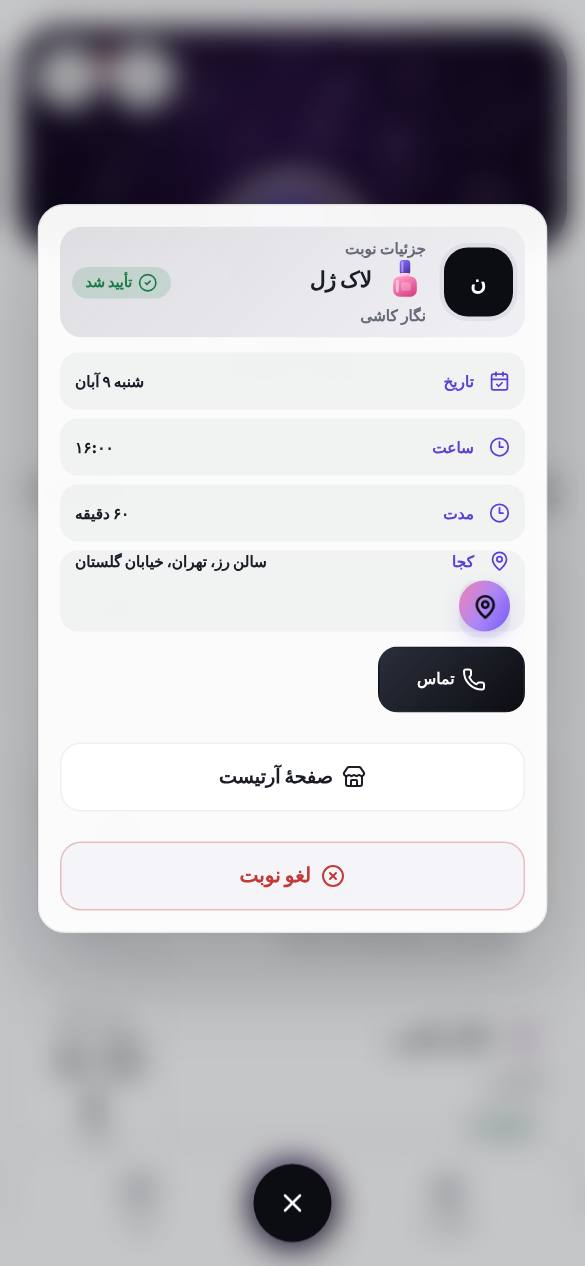
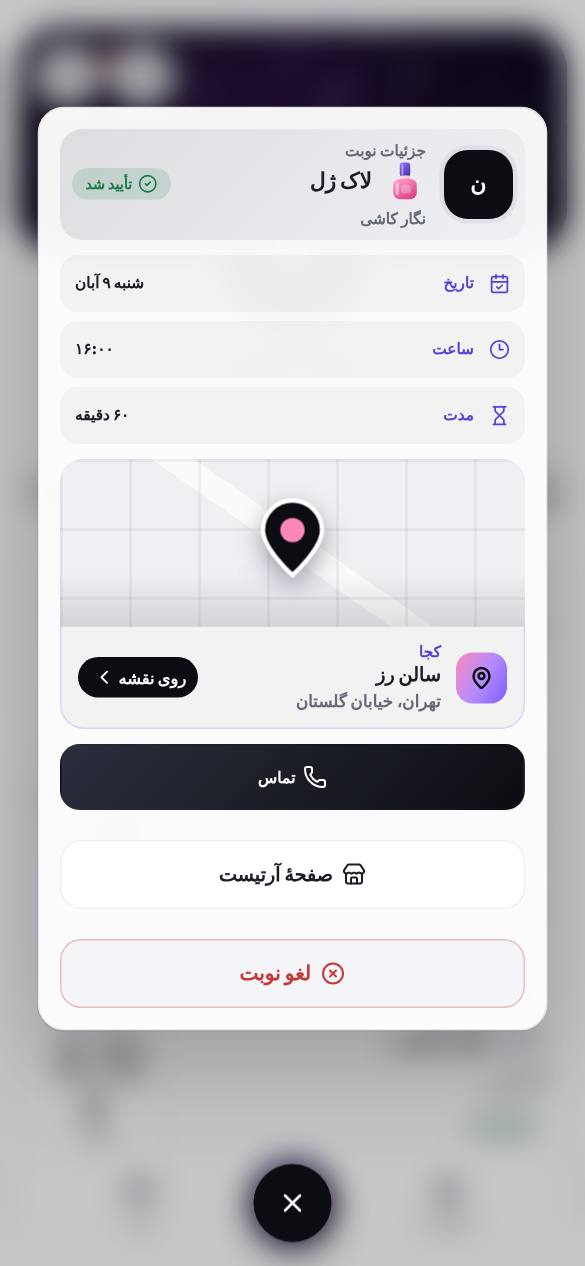
Booking details: «کجا» becomes a map card, and the map sheet is redesigned
The location row in the client's booking details was a cramped text line with a floating pin. It is now a
card with a small still map, the place's name and area and «روی نقشه»; the whole card opens the map. The map
sheet now fills with the map, the name floats on top, the pin carries the name and drops in, and there are
«برگرد سر پین» and zoom buttons. At night the map dims to match the app; while tiles load a faint street
grid shows instead of an empty box. Salon bookings now carry the salon's pin too.

Also: an artist booking says «منتظر آرتیست» and «آرتیست همون لحظه خبردار میشه» instead of «سالن»; a lone
«تماس» button spans the full width; «مدت» gets an hourglass icon. Screens retaken, map screens added.

Claude-Session: https://claude.ai/code/session_012eDscH4fh4hWdxGJLyyo8q

diff --git a/app/styles/features/location.css b/app/styles/features/location.css
@@ -26,28 +26,69 @@
   100% { box-shadow: 0 0 0 12px rgb(var(--brand-pink-rgb) / 0); }
 }
 
-/* ── Sheet ── */
+/* ── Sheet: the map fills it; the name floats on top, the map tools sit on the side ── */
 .locSheetOverlay { position: fixed; inset: 0; z-index: calc(var(--z-sheet-close) - 2); display: flex; align-items: flex-end; justify-content: center; background: var(--scrim); animation: locFade 0.22s ease-out both; }
-.locSheet { width: 100%; max-width: 460px; max-height: calc(100dvh - 40px - env(safe-area-inset-top)); overflow-y: auto; overscroll-behavior: contain; box-sizing: border-box; display: flex; flex-direction: column; gap: 14px; padding: 18px 16px 0; border-radius: 28px 28px 0 0; background: var(--n-0); color: var(--n-900); box-shadow: 0 -20px 50px -20px rgb(var(--shadow-rgb) / 0.45); animation: locRise 0.32s cubic-bezier(0.2, 0.8, 0.25, 1) both; }
-.locSheetHead { display: flex; align-items: center; gap: 12px; }
-.locSheetHead > div { min-width: 0; display: grid; gap: 1px; }
-.locSheetHead h3 { margin: 0; overflow: hidden; font-size: 1.06rem; font-weight: 900; white-space: nowrap; text-overflow: ellipsis; }
-.locSheetHead small { color: var(--n-600); font-size: 0.76rem; font-weight: 700; }
-.locSheetBadge { width: 40px; height: 40px; flex: none; display: grid; place-items: center; border-radius: 14px; background: var(--brand-blend); color: var(--brand-ink); }
+.locSheet { width: 100%; max-width: 460px; box-sizing: border-box; display: flex; flex-direction: column; padding: 10px 10px 0; border-radius: 30px 30px 0 0; background: var(--n-0); color: var(--n-900); box-shadow: 0 -20px 50px -20px rgb(var(--shadow-rgb) / 0.45); animation: locRise 0.36s cubic-bezier(0.2, 0.8, 0.25, 1) both; }
+.locStage { position: relative; height: min(calc(100dvh - 150px - env(safe-area-inset-top)), 620px); flex: none; overflow: hidden; border-radius: 22px; background: var(--n-100); isolation: isolate; }
+.locStage .locMap { position: absolute; inset: 0; height: auto; border-radius: 0; }
 
-.locMap { position: relative; z-index: 0; height: min(60dvh, 440px); flex: none; overflow: hidden; border-radius: 20px; background: var(--n-100); direction: ltr; }
-.locMap .leaflet-control-attribution { font-size: 9px; }
-.locPinIcon { background: none !important; border: 0 !important; }
-.locPin { position: relative; display: block; width: 38px; height: 46px; }
+.locSheetHead { position: absolute; z-index: 2; top: 10px; right: 10px; left: 10px; display: flex; align-items: center; gap: 10px; padding: 8px 14px 8px 8px; border-radius: 18px; background: rgb(var(--paper-rgb) / 0.9); box-shadow: 0 10px 28px -10px rgb(var(--shadow-rgb) / 0.4), inset 0 0 0 1px rgb(var(--ink-rgb) / 0.06); backdrop-filter: blur(14px); -webkit-backdrop-filter: blur(14px); animation: locDrop 0.4s 0.12s cubic-bezier(0.2, 0.8, 0.25, 1) both; }
+.locSheetHead > div { min-width: 0; display: grid; gap: 1px; }
+.locSheetHead h3 { margin: 0; overflow: hidden; color: var(--n-900); font-size: 1rem; font-weight: 900; white-space: nowrap; text-overflow: ellipsis; }
+.locSheetHead small { color: var(--n-600); font-size: 0.74rem; font-weight: 800; }
+.locSheetBadge { width: 40px; height: 40px; flex: none; display: grid; place-items: center; border-radius: 13px; background: var(--brand-blend); color: var(--brand-ink); }
+
+.locTools { position: absolute; z-index: 2; bottom: 14px; left: 12px; display: grid; gap: 8px; justify-items: center; }
+.locTools button { width: 44px; height: 44px; display: grid; place-items: center; padding: 0; border: 0; background: rgb(var(--paper-rgb) / 0.94); color: var(--n-900); cursor: pointer; -webkit-tap-highlight-color: transparent; }
+.locTools > button { border-radius: 50%; box-shadow: 0 8px 20px -8px rgb(var(--shadow-rgb) / 0.5), inset 0 0 0 1px rgb(var(--ink-rgb) / 0.06); }
+.locZoom { display: grid; overflow: hidden; border-radius: 16px; box-shadow: 0 8px 20px -8px rgb(var(--shadow-rgb) / 0.5), inset 0 0 0 1px rgb(var(--ink-rgb) / 0.06); }
+.locZoom button + button { border-top: 1px solid rgb(var(--ink-rgb) / 0.08); }
+.locTools button:active { background: var(--n-100); }
+.locTools button:focus-visible { outline: 3px solid var(--focus-ring); outline-offset: 2px; }
+
+/* Until the tiles arrive (slow networks) a faint street grid keeps it looking like a map, not an empty box. */
+.locMap { position: relative; z-index: 0; height: min(60dvh, 440px); flex: none; overflow: hidden; border-radius: 20px; direction: ltr; }
+.locMap, .locMap.leaflet-container { background-color: var(--n-100); background-image: linear-gradient(rgb(var(--ink-rgb) / 0.05) 2px, transparent 2px), linear-gradient(90deg, rgb(var(--ink-rgb) / 0.05) 2px, transparent 2px), linear-gradient(35deg, transparent 47%, rgb(var(--paper-rgb) / 0.7) 47%, rgb(var(--paper-rgb) / 0.7) 53%, transparent 53%); background-size: 46px 46px, 46px 46px, 100% 100%; }
+.locMap .leaflet-control-attribution { font-size: 9px; background: rgb(var(--paper-rgb) / 0.8); color: var(--n-600); }
+.locMap .leaflet-control-attribution a { color: inherit; }
+.locStage .leaflet-bottom.leaflet-left { margin-left: 64px; }
+.locPinIcon { background: none !important; border: 0 !important; overflow: visible; }
+.locPin { position: relative; display: block; width: 44px; height: 54px; animation: locPinDrop 0.6s 0.2s cubic-bezier(0.3, 1.5, 0.5, 1) both; }
 .locPin svg { position: relative; display: block; filter: drop-shadow(0 6px 8px rgb(var(--shadow-rgb) / 0.35)); }
-.locPinPulse { position: absolute; left: 50%; bottom: -6px; width: 44px; height: 16px; margin-left: -22px; border-radius: 50%; background: rgb(var(--brand-violet-rgb) / 0.35); animation: locPulse 2.2s ease-out infinite; }
+.locPinPulse { position: absolute; left: 50%; bottom: -6px; width: 50px; height: 18px; margin-left: -25px; border-radius: 50%; background: rgb(var(--brand-violet-rgb) / 0.35); animation: locPulse 2.2s ease-out infinite; }
+.locPinTag { position: absolute; bottom: calc(100% + 6px); left: 50%; max-width: 180px; overflow: hidden; padding: 5px 11px; border-radius: 999px; background: var(--n-900); color: var(--n-0); font-family: inherit; font-size: 12px; font-weight: 900; line-height: 1.5; white-space: nowrap; text-overflow: ellipsis; direction: rtl; transform: translateX(-50%); box-shadow: 0 6px 14px -6px rgb(var(--shadow-rgb) / 0.6); }
+.locPinTag::after { content: ""; position: absolute; top: 100%; left: 50%; margin-left: -5px; border: 5px solid transparent; border-top-color: var(--n-900); }
 @keyframes locPulse { 0% { transform: scale(0.4); opacity: 1; } 100% { transform: scale(1.5); opacity: 0; } }
+@keyframes locPinDrop { from { transform: translateY(-28px); opacity: 0; } to { transform: none; opacity: 1; } }
 
 @keyframes locFade { from { opacity: 0; } to { opacity: 1; } }
 @keyframes locRise { from { transform: translateY(40px); opacity: 0; } to { transform: none; opacity: 1; } }
+@keyframes locDrop { from { transform: translateY(-10px); opacity: 0; } to { transform: none; opacity: 1; } }
+
+/* At night the street map dims to match the app instead of glowing white. */
+:root[data-theme="dark"] .locMap .leaflet-tile-pane { filter: brightness(0.62) contrast(1.15) saturate(0.7); }
+@media (prefers-color-scheme: dark) {
+  :root:not([data-theme="light"]) .locMap .leaflet-tile-pane { filter: brightness(0.62) contrast(1.15) saturate(0.7); }
+}
+
+/* ── «کجا» card in the client's booking details (LocationCard) ── */
+.locCard { position: relative; display: grid; width: 100%; overflow: hidden; padding: 0; border: 0; border-radius: 16px; background: rgb(var(--ink-rgb) / 0.04); color: var(--n-900); font: inherit; text-align: right; }
+.locCard.is-pinned { cursor: pointer; box-shadow: inset 0 0 0 1px rgb(var(--brand-violet-rgb) / 0.22); -webkit-tap-highlight-color: transparent; }
+.locCard.is-pinned:active { transform: scale(0.985); }
+.locCard.is-pinned:focus-visible { outline: 3px solid var(--focus-ring); outline-offset: 2px; }
+.locCardMap { position: relative; display: block; height: 112px; pointer-events: none; }
+.locCardMap .locMap { position: absolute; inset: 0; height: auto; border-radius: 0; }
+.locCardMap::after { content: ""; position: absolute; inset: auto 0 0; z-index: 1; height: 36px; background: linear-gradient(to top, rgb(var(--ink-rgb) / 0.12), transparent); }
+.locCardText { display: flex; align-items: center; gap: 10px; padding: 10px 12px; }
+.locCardIcon { width: 34px; height: 34px; flex: none; display: grid; place-items: center; border-radius: 11px; background: var(--brand-blend); color: var(--brand-ink); }
+.locCardLines { flex: 1; min-width: 0; display: grid; gap: 1px; }
+.locCardLines small { color: var(--info); font-size: 0.64rem; font-weight: 900; }
+.locCardLines b { overflow: hidden; color: var(--n-900); font-size: 0.8rem; font-weight: 950; white-space: nowrap; text-overflow: ellipsis; }
+.locCardLines em { color: var(--n-600); font-size: 0.7rem; font-style: normal; font-weight: 800; line-height: 1.6; }
+.locCardGo { flex: none; display: inline-flex; align-items: center; gap: 2px; padding: 6px 8px 6px 10px; border-radius: 999px; background: var(--fill-strong); color: var(--n-0); font-size: 0.68rem; font-weight: 900; }
 
 @media (prefers-reduced-motion: reduce) {
-  .locButton svg, .locButtonRing, .locPinPulse, .locSheet, .locSheetOverlay { animation: none; }
+  .locButton svg, .locButtonRing, .locPinPulse, .locPin, .locSheet, .locSheetHead, .locSheetOverlay { animation: none; }
 }
 
 /* ── تنظیمات → ثبت لوکیشن: plate / floor field and the «no pin yet» nudge ── */

diff --git a/app/components/LocationButton.jsx b/app/components/LocationButton.jsx
@@ -2,56 +2,97 @@
 
 import { useEffect, useRef, useState } from "react";
 import { createPortal } from "react-dom";
-import { MapPin } from "lucide-react";
+import { ChevronLeft, LocateFixed, MapPin, Minus, Plus } from "lucide-react";
 import { SheetClose } from "./SheetClose";
 // Bundled with the app instead of fetched from a CDN, so the map never depends on one being reachable.
 import "leaflet/dist/leaflet.css";
 
 const PIN_ZOOM = 16;
-const PIN_HTML = `<span class="locPin" aria-hidden="true"><span class="locPinPulse"></span><svg width="38" height="46" viewBox="0 0 38 46"><path d="M19 45s17-15.2 17-26A17 17 0 0 0 2 19c0 10.8 17 26 17 26Z" style="fill:var(--brand-ink);stroke:var(--brand-white)" stroke-width="2.5"/><circle cx="19" cy="19" r="7" style="fill:var(--brand-pink)"/></svg></span>`;
+const PREVIEW_ZOOM = 15;
 
-/** The pinned map inside the sheet: Leaflet + OpenStreetMap tiles, the same as «ثبت لوکیشن». */
-function LocationMap({ lat, lng }) {
+function escapeHtml(text) {
+  return String(text).replace(/[&<>"']/g, (ch) => ({ "&": "&amp;", "<": "&lt;", ">": "&gt;", '"': "&quot;", "'": "&#39;" })[ch]);
+}
+
+function pinHtml(label) {
+  const tag = label ? `<span class="locPinTag">${escapeHtml(label)}</span>` : "";
+  return `<span class="locPin" aria-hidden="true">${tag}<span class="locPinPulse"></span><svg width="44" height="54" viewBox="0 0 38 46"><path d="M19 45s17-15.2 17-26A17 17 0 0 0 2 19c0 10.8 17 26 17 26Z" style="fill:var(--brand-ink);stroke:var(--brand-white)" stroke-width="2.5"/><circle cx="19" cy="19" r="7" style="fill:var(--brand-pink)"/></svg></span>`;
+}
+
+const hasPin = (location) => Boolean(location) && Number.isFinite(location.lat) && Number.isFinite(location.lng);
+
+/**
+ * The pinned map: Leaflet + OpenStreetMap tiles, the same as «ثبت لوکیشن». `preview` is the small,
+ * still picture inside the booking card (no gestures, taps fall through to the card); otherwise it is
+ * the full map in the sheet, with the place's name on the pin and onReady handing out the map.
+ */
+function LocationMap({ lat, lng, label = "", preview = false, onReady }) {
   const containerRef = useRef(null);
+  const readyRef = useRef(onReady);
+  readyRef.current = onReady;
 
   useEffect(() => {
     let map = null;
     let cancelled = false;
     import("leaflet").then((L) => {
       if (cancelled || !containerRef.current) return;
-      map = L.map(containerRef.current, { center: [lat, lng], zoom: PIN_ZOOM, zoomControl: false, attributionControl: false });
+      map = L.map(containerRef.current, {
+        center: [lat, lng],
+        zoom: preview ? PREVIEW_ZOOM : PIN_ZOOM,
+        zoomControl: false,
+        attributionControl: false,
+        ...(preview ? { dragging: false, touchZoom: false, scrollWheelZoom: false, doubleClickZoom: false, boxZoom: false, keyboard: false, tap: false } : {})
+      });
       L.tileLayer("https://{s}.tile.openstreetmap.org/{z}/{x}/{y}.png", { maxZoom: 19 }).addTo(map);
-      L.control.attribution({ prefix: false, position: "bottomleft" }).addAttribution("© OpenStreetMap").addTo(map);
+      if (!preview) L.control.attribution({ prefix: false, position: "bottomleft" }).addAttribution("© OpenStreetMap").addTo(map);
       L.marker([lat, lng], {
-        icon: L.divIcon({ className: "locPinIcon", html: PIN_HTML, iconSize: [38, 46], iconAnchor: [19, 45] }),
+        icon: L.divIcon({ className: "locPinIcon", html: pinHtml(preview ? "" : label), iconSize: [44, 54], iconAnchor: [22, 53] }),
         keyboard: false,
         interactive: false
       }).addTo(map);
+      // The pin hangs above its point: in the short preview, lower the view so the whole pin sits in the middle.
+      if (preview) map.panBy([0, -22], { animate: false });
       // The sheet slides in: measure again once it has its final size.
       window.setTimeout(() => map?.invalidateSize(), 320);
+      readyRef.current?.(map);
     });
     return () => {
       cancelled = true;
+      readyRef.current?.(null);
       map?.remove();
     };
-  }, [lat, lng]);
+  }, [lat, lng, label, preview]);
 
-  return <div className="locMap" ref={containerRef} role="img" aria-label="محل روی نقشه" />;
+  return <div className={preview ? "locMap is-preview" : "locMap"} ref={containerRef} role="img" aria-label="محل روی نقشه" />;
 }
 
 function LocationSheet({ name, location, onClose }) {
+  const mapRef = useRef(null);
+  const recenter = () => mapRef.current?.flyTo([location.lat, location.lng], PIN_ZOOM, { duration: 0.6 });
+  const zoom = (step) => mapRef.current?.setZoom(mapRef.current.getZoom() + step);
+
   return createPortal((
     <div className="locSheetOverlay" role="dialog" aria-modal="true" aria-label={`${name} روی نقشه`} onClick={onClose}>
       <article className="locSheet" onClick={(event) => event.stopPropagation()}>
-        <header className="locSheetHead">
-          <span className="locSheetBadge" aria-hidden="true"><MapPin size={18} /></span>
-          <div>
-            <h3>{name}</h3>
-            <small>روی نقشه</small>
-          </div>
-        </header>
+        <div className="locStage">
+          <LocationMap lat={location.lat} lng={location.lng} label={name} onReady={(map) => { mapRef.current = map; }} />
 
-        <LocationMap lat={location.lat} lng={location.lng} />
+          <header className="locSheetHead">
+            <span className="locSheetBadge" aria-hidden="true"><MapPin size={18} strokeWidth={2.4} /></span>
+            <div>
+              <h3>{name}</h3>
+              <small>اینجاست</small>
+            </div>
+          </header>
+
+          <div className="locTools">
+            <button type="button" onClick={recenter} aria-label="برگرد سر پین"><LocateFixed size={19} /></button>
+            <span className="locZoom">
+              <button type="button" onClick={() => zoom(1)} aria-label="بزرگتر"><Plus size={19} /></button>
+              <button type="button" onClick={() => zoom(-1)} aria-label="کوچیکتر"><Minus size={19} /></button>
+            </span>
+          </div>
+        </div>
 
         <SheetClose onClick={onClose} />
       </article>
@@ -65,12 +106,47 @@ function LocationSheet({ name, location, onClose }) {
  */
 export function LocationButton({ name = "", location = null }) {
   const [open, setOpen] = useState(false);
-  if (!location || !Number.isFinite(location.lat) || !Number.isFinite(location.lng)) return null;
+  if (!hasPin(location)) return null;
   return (
     <>
       <button type="button" className="locButton" onClick={() => setOpen(true)} aria-label={`آدرس ${name} روی نقشه`} aria-haspopup="dialog">
         <span className="locButtonRing" aria-hidden="true" />
         <MapPin size={17} strokeWidth={2.4} aria-hidden="true" />
+      </button>
+      {open && typeof document !== "undefined" ? (
+        <LocationSheet name={name} location={location} onClose={() => setOpen(false)} />
+      ) : null}
+    </>
+  );
+}
+
+/**
+ * «کجا» in the client's booking details: the place's name and area, and once it has a pin, a small
+ * map above them; the whole card opens the same map sheet as the pin button. Without a pin it is a
+ * plain line of text.
+ */
+export function LocationCard({ name = "", area = "", location = null }) {
+  const [open, setOpen] = useState(false);
+  const pinned = hasPin(location);
+  const body = (
+    <span className="locCardText">
+      <span className="locCardIcon" aria-hidden="true"><MapPin size={16} strokeWidth={2.4} /></span>
+      <span className="locCardLines">
+        <small>کجا</small>
+        <b>{name}</b>
+        {area && area !== name ? <em>{area}</em> : null}
+      </span>
+      {pinned ? <span className="locCardGo">روی نقشه<ChevronLeft size={15} aria-hidden="true" /></span> : null}
+    </span>
+  );
+  if (!pinned) return <div className="locCard">{body}</div>;
+  return (
+    <>
+      <button type="button" className="locCard is-pinned" onClick={() => setOpen(true)} aria-haspopup="dialog" aria-label={`${name} روی نقشه`}>
+        <span className="locCardMap" aria-hidden="true">
+          <LocationMap lat={location.lat} lng={location.lng} preview />
+        </span>
+        {body}
       </button>
       {open && typeof document !== "undefined" ? (
         <LocationSheet name={name} location={location} onClose={() => setOpen(false)} />

diff --git a/app/features/client/ClientBookingSettingsModal.jsx b/app/features/client/ClientBookingSettingsModal.jsx
@@ -1,10 +1,10 @@
 "use client";
 
 import { useEffect, useState } from "react";
-import { ArrowLeft, CalendarCheck, CheckCircle2, Clock3, MapPin, Phone, RotateCcw, Store, TimerOff, UserPlus, XCircle } from "lucide-react";
+import { ArrowLeft, CalendarCheck, CheckCircle2, Clock3, Hourglass, Phone, RotateCcw, Store, TimerOff, UserPlus, XCircle } from "lucide-react";
 import { connectTo, listConnections } from "../../shared/api/connections";
 import { SheetClose } from "../../components/SheetClose";
-import { LocationButton } from "../../components/LocationButton";
+import { LocationCard } from "../../components/LocationButton";
 import { bookingStatusLabel, bookingStatusTone, canClientCancel, hasBookingStarted, isPlaceGone, movedToName, openProposalOf, requestWaitNote } from "./bookingStatus";
 import { ServiceIcon } from "../../components/ServiceIcon";
 import { toLatinDigits, toPersianDigits } from "../../shared/lib/digits";
@@ -236,8 +236,10 @@ export function ClientBookingSettingsModal({
   const formattedDate = rawDate ? formatRelativeBookingDayLabel(rawDate) : "امروز";
   const statusTone = booking.no_show_at ? "bad" : bookingStatusTone(booking.status || "تازه");
   const StatusIcon = BOOKING_STATUS_ICONS[statusTone];
-  // A direct booking received at the artist's salon says so: «سالن رز، خیابان …» (the name stays the artist's).
-  const area = [booking.placeSalonName, booking.salonArea || booking.salon_area || ""].filter(Boolean).join("، ");
+  // A direct booking received at the artist's salon says so: «سالن رز» with its area (the name above stays the artist's).
+  const placeName = booking.placeSalonName || salonName;
+  const placeArea = booking.salonArea || booking.salon_area || "";
+  const byArtist = booking.bookingSource === "artist";
   const duration = Number(booking.duration_minutes) || 0;
   const offer = booking.bookingSource === "artist" ? null : bookingTimeOffer(booking);
   const waitNote = statusTone === "pending" && !offer ? requestWaitNote(booking) : "";
@@ -273,7 +275,7 @@ export function ClientBookingSettingsModal({
             </div>
             <strong className={`clientBookingSettingsStatus is-${statusTone}`}>
               <StatusIcon size={13} />
-              {booking.no_show_at ? "نیومدی" : booking.status === "تایید شده" && hasBookingStarted(booking) ? "گذشته" : bookingStatusLabel(booking.status)}
+              {booking.no_show_at ? "نیومدی" : booking.status === "تایید شده" && hasBookingStarted(booking) ? "گذشته" : bookingStatusLabel(booking.status, byArtist ? "artist" : "salon")}
             </strong>
           </div>
           <div className="clientBookingSettingsGrid">
@@ -289,18 +291,14 @@ export function ClientBookingSettingsModal({
             ) : null}
             {duration ? (
               <span>
-                <Clock3 size={14} /> <b>مدت</b>
+                <Hourglass size={14} /> <b>مدت</b>
                 <em>{toPersianDigits(duration)} دقیقه</em>
               </span>
             ) : null}
-            {area ? (
-              <span>
-                <MapPin size={14} /> <b>کجا</b>
-                <em>{area}</em>
-                <LocationButton name={booking.placeSalonName || booking.salonName || "آرتیست"} location={booking.placeLocation || null} />
-              </span>
-            ) : null}
           </div>
+          {placeName && (placeArea || booking.placeLocation) ? (
+            <LocationCard name={placeName} area={placeArea} location={booking.placeLocation || null} />
+          ) : null}
           {offer && onAnswerOffer ? (
             <TimeOfferBlock
               booking={booking}
@@ -393,7 +391,7 @@ export function ClientBookingSettingsModal({
           {canClientCancel(booking) && onCancelBooking && !offer ? (
             confirming ? (
               <div className="cbCancelConfirm" role="alertdialog" aria-label="لغو نوبت">
-                <p>این نوبت لغو بشه؟ سالن همون لحظه خبردار میشه.</p>
+                <p>این نوبت لغو بشه؟ {byArtist ? "آرتیست" : "سالن"} همون لحظه خبردار میشه.</p>
                 <div>
                   <button
                     type="button"

diff --git a/app/lib/db/repos/salons/bookings.js b/app/lib/db/repos/salons/bookings.js
@@ -27,6 +27,7 @@ import { listSalonServices } from "./services.js";
 import { listSalonHours } from "./hours.js";
 import { resolveBookingServiceEmoji } from "../serviceEmoji.js";
 import { bumpSalonAvailability } from "../../../availabilityCache.js";
+import { publicLocation } from "../../../location.js";
 import { findSalonStaffForBooking, listSalonStaff } from "./staff.js";
 import {
   groupConsecutiveParts,
@@ -755,6 +756,7 @@ export async function listClientSalonBookings(user) {
   // The backup salon's name, and for a request that was moved, the salon it went to / came from.
   const rows = await all(db, `
     SELECT b.*, s.name AS salon_name, s.area AS salon_area, s.phone AS salon_phone, s.user_id AS source_salon_user_id, (u.avatar <> '' OR u.avatar_url IS NOT NULL) AS salon_avatar,
+      u.geo_lat AS salon_geo_lat, u.geo_lng AS salon_geo_lng,
       fs.name AS fallback_name, ts.name AS moved_to_name, os.name AS moved_from_name
     FROM salon_bookings b
     LEFT JOIN salons s ON s.user_id = b.salon_user_id
@@ -780,6 +782,8 @@ export async function listClientSalonBookings(user) {
     // existing "‹thing› حذفشده" convention for a deleted parent row.
     salonName: row.salon_name || (row.salon_user_id ? "سالن" : "سالن حذفشده"),
     salonArea: row.salon_area || "",
+    // The salon's pin for «کجا» in the client's booking details (the same pin as on its public page).
+    placeLocation: publicLocation({ area: row.salon_area, geo_lat: row.salon_geo_lat, geo_lng: row.salon_geo_lng }),
     salonPhone: row.salon_phone || "",
     salonAvatar: row.salon_avatar && row.source_salon_user_id ? `/api/media/avatar/${row.source_salon_user_id}` : "",
     sourceSalonUserId: row.source_salon_user_id || row.salon_user_id

diff --git a/app/features/client/bookingStatus.js b/app/features/client/bookingStatus.js
@@ -5,12 +5,12 @@ import { scheduleBookingParts } from "../../shared/lib/bookingParts";
 import { getTehranClockMinutes, normalizeBookingTimeLabel, timeLabelToMinutes } from "../../shared/lib/time";
 
 /** Plain-language status for a booking row (the stored values are internal: تازه / درخواست ...). */
-export function bookingStatusLabel(status = "") {
+export function bookingStatusLabel(status = "", waitsOn = "salon") {
   if (status === "تایید شده" || status === "تایید") return "تأیید شد";
   if (status === "لغو") return "لغو شد";
   if (status === "منقضی شده") return "منقضی شد";
   if (status === AWAITING_CLIENT) return "در انتظار تو";
-  return "منتظر سالن";
+  return waitsOn === "artist" ? "منتظر آرتیست" : "منتظر سالن";
 }
 
 export function bookingStatusTone(status = "") {

diff --git a/app/styles/features/client.css b/app/styles/features/client.css
@@ -470,6 +470,11 @@
   gap: 8px;
 }
 
+/* Only «تماس» (or only «دوباره نوبت بگیر»): one full-width button, not a lonely half. */
+.clientBookingSettingsActions:has(> button:only-child) {
+  grid-template-columns: 1fr;
+}
+
 /* .clientBookingSettingsActions button */
 .clientBookingSettingsActions button {
   min-height: 42px;

diff --git a/CLAUDE.md b/CLAUDE.md
@@ -42,7 +42,7 @@ Every text a client, salon or artist sees (screens, buttons, errors, notificatio
 - Service icons were redrawn from scratch on 2026-10-15 on the brand palette (`app/shared/constants/beautyArt/inkLight.js`). The rules for new or changed icons are in `docs/DESIGN_SYSTEM.md` («آیکن خدمات»). Icon ids are stored in the database: never rename or remove one.
 - Subscriptions (user's decision 2026-10-16, built the same day): clients are free; salons and artists get 30 free days, then a 1/6/12-month plan (prices in `app/lib/billing/plans.js`). Billing is switched on in the admin panel («پرداختها»); the gateway is `FRFRO_PAYMENT_GATEWAY` (`sandbox` for trying, `zarinpal` ready, others are one file in `app/lib/payments`). An account is closed (out of the directory and name search, no new online bookings, nothing deleted) only while billing is on and a gateway is ready. Money rules: amounts come from the plan on the server, "paid" only from the gateway's verify, every write in `app/lib/db/repos/billing.js` under row locks. `/pay` is shown on every screen size (the bank's return page). Operations: `docs/OPERATIONS.md` «اشتراک سالن و آرتیست». Being on a salon's team exempts no artist (user's decision 2026-10-16); a salon may optionally pay a team artist's subscription (`forUserId` at checkout, `payments.payer_user_id`). The refund policy (terms §4) and the 10-year record keeping (privacy §3) are a common, conservative draft the lawyer still has to review; refunds go back through the gateway's panel and are recorded in the admin panel («ثبت بازپرداخت»).
 - Connecting (built 2026-10-18 on the user's request to make salon/artist/client connections effortless): the one word in the UI is «وصل شدن» («وصل شو» / «وصل هستی»), never «دنبال کردن», though the data is still the `follows` table. A public salon/artist page's «رزرو» opens the app on that same place (`/?open=salon-12`, `app/shared/lib/appHandoff.js`): a guest goes straight to the client sign-up form, then is connected and lands on its services; `?open=` and `?join=` skip the about page. Once connected, the button says «وصل هستی» for two seconds, then turns into a linked look whose menu holds «قطع اتصال» and «گزارش به پشتیبانی» (opens a support complaint titled with that page's name; `features/connect/ConnectToggle.jsx`, user's request 2026-10-21). Salons and artists bring their customers through «دعوت مشتری» on the customers page (`InviteClientsSheet.jsx`: counter QR, ready message, scan a client's code).
-- «کجاست؟» (user's request 2026-10-18): on a salon's or artist's public page a pin button next to the name (`components/LocationButton.jsx`, styles `app/styles/features/location.css`) opens a sheet with only the map and the pinned spot (user's decision 2026-10-21: no address card, no copy, no Balad, routing or taxi buttons; the Tapsi work is parked on branch `claude/tapsi-ride`, not merged). Without a pin there is no button. The pin and plate/floor come from تنظیمات → ثبت لوکیشن (`users.geo_lat/geo_lng/address_detail`, migration `036`).
+- «کجاست؟» (user's request 2026-10-18): on a salon's or artist's public page a pin button next to the name (`components/LocationButton.jsx`, styles `app/styles/features/location.css`) opens a sheet with only the map and the pinned spot (user's decision 2026-10-21: no address card, no copy, no Balad, routing or taxi buttons; the Tapsi work is parked on branch `claude/tapsi-ride`, not merged). Without a pin there is no button. In the client's booking details «کجا» is a card (`LocationCard`, same file) with a small still map, the place's name and area and «روی نقشه»; tapping it opens the same sheet, which is the map filling the sheet with the name floating on top, the name on the pin, and «برگرد سر پین» and zoom buttons (redesigned 2026-10-26 on the user's request «خیلی بهتر»). Salon bookings carry the salon's pin too (`placeLocation`). The pin and plate/floor come from تنظیمات → ثبت لوکیشن (`users.geo_lat/geo_lng/address_detail`, migration `036`).
 - Hosting is moving from Vercel + Supabase to the user's own server (user's decision 2026-10-18): how to deploy there is in `docs/DEPLOY_SERVER.md` (files in `deploy/`, scripts in `scripts/`), what is still open before launch in `docs/LAUNCH_CHECKLIST.md`. The Vercel project stays as a test copy; only the domain and the data move (user's decision 2026-10-19). Every later move between servers goes through `docs/SERVER_MOVE.md` (`scripts/move-export.sh` / `move-import.sh`, row counts checked, short maintenance window, old server forwards to the new one), so moving never loses data (user's request 2026-10-19). The app keeps nothing on disk besides the database, the env file and the certificates: keep it that way, or add the new thing to the move bundle.
 - Migrations (`migrations/NNN_name.sql`): every Vercel deploy, previews of unmerged branches included, runs `npm run migrate` against the one shared database, so the database can already hold another branch's migration. `scripts/migrate.mjs` therefore runs "up" without node-pg-migrate's order check (it compared run and local migrations position by position and failed every other branch's build, 2026-10-18). Still: before adding a migration, `git fetch origin` and take a number above every migration on main **and** on other open branches, and keep each migration independent of other branches' (only its own columns/tables, `IF NOT EXISTS`).
 - Push in the Android app (built 2026-10-19 on the user's request to save SMS): `@capacitor/push-notifications` + Firebase (`app/lib/fcm.js`, tokens in `native_push_tokens`, site side `app/shared/lib/nativePush.js`). Rule (user's decision): someone with the Android app and notifications on gets booking/subscription news as a push only, unless that push failed to reach Firebase (then the SMS goes too, `pushReachedApp` in `app/lib/push.js`, 2026-10-22); everyone else, iPhone and browser users included, also gets the SMS. It switches on only once the user makes the Firebase project (`docs/OPERATIONS.md` «اعلان اپ اندروید»). The app version stays 1.0.0 (user's request 2026-10-19): do not raise `versionName`. A second, private app «فرفرو مدیر» (`ir.frfro.admin`, Gradle flavor `admin`, opens `/admin`, never published in a store; user's choice 2026-10-19) gets the operator's news as a push instead of the admin SMS (`app/lib/adminPush.js`, tokens in `admin_push_tokens`); its icon is the logo on red with red eyes (`public/brand/frfro-admin-icon.png`). See `mobile/README.md` «اپ مدیر».
